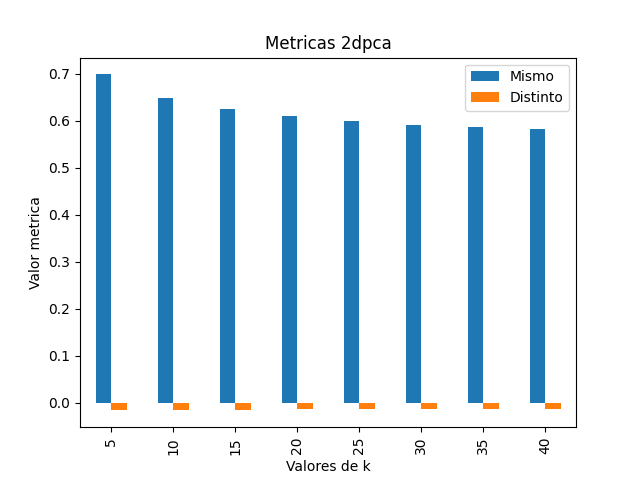
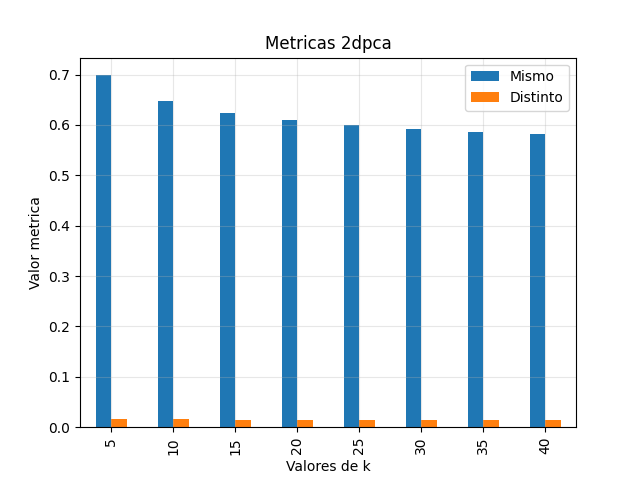
Agrgego graficos + medicion tiempos

diff --git a/src/python/main.py b/src/python/main.py
@@ -4,6 +4,7 @@ import ejecutar
 import IO
 import plotter
 import config
+import time
 
 def obtenerMatricesCovarianzayCorrelación(X, sufijo = ''):
     # centrar matriz
@@ -40,7 +41,7 @@ def PCA(imagenes, k, calcularCovarianza = False, autovectores="covarianza_eigenV
     X = utils.aplanarImagenes(imagenes)
     # Obtener componentes principales
     if calcularCovarianza:
-        C = obtenerMatricesCovarianzayCorrelación(X)
+        obtenerMatricesCovarianzayCorrelación(X)
         # Calcular autovalores y autovectores de matriz de covarianza
         print("Ejecutando Deflacion para Matriz de Covarianza")
         if omitirAutovectores:
@@ -119,7 +120,7 @@ def generarEigenFaces(imagenes, k):
 
 
 def regenerarRostros(imagenes):
-    folder = "resultados/ejericico_2/item_d/"
+    folder = "resultados/ejercicio_2/item_d/"
     # PCA
     for componentes in [10, 100, 200, 300, 400]:
         rostros_pca, _ = PCA(imagenes, componentes, False)
@@ -169,8 +170,8 @@ def calcularMetricas(M):
 
 
 def errorPcaVsTdpca(imagenes):
-    ks_pca = list(range(50, 400, 50))
-    ks_tdpca = list(range(5, 45, 5))
+    ks_pca = list(range(50, 401, 50))
+    ks_tdpca = list(range(5, 46, 5))
     imagenes_procesadas = {"pca": {}, "tdpca": {}}
     for k in ks_pca:
         imagenes_pca, z_pca = PCA(imagenes, k, False)
@@ -179,6 +180,20 @@ def errorPcaVsTdpca(imagenes):
         imagenes_tdpca, z_tdpca = TDPCA(imagenes, k, False)
         imagenes_procesadas["tdpca"][k] = imagenes_tdpca
     plotter.graficarErrorCompresion(imagenes, imagenes_procesadas, "Error de compresión PCA vs 2DPCA")
+
+def errorEnRango(imagenes, metodo, rango, calcularCovarianza=False):
+    imagenes_procesadas = {}
+    if metodo == "pca":
+        for k in rango:
+            print("resolviendo para k: " + str(k))
+            imagenes_pca, z_pca = PCA(imagenes, k, calcularCovarianza)
+            imagenes_procesadas[k] = imagenes_pca
+    else:
+        for k in rango:
+            print("resolviendo para k: " + str(k))
+            imagenes_tdpca, z_tdpca = TDPCA(imagenes, k, calcularCovarianza)
+            imagenes_procesadas[k] = imagenes_tdpca
+    plotter.graficarErrorEnRango(imagenes, imagenes_procesadas, metodo)
 
 
 def visualizarCorrelacion(imagenes, generarMatrices=False):
@@ -206,7 +221,7 @@ def compararMetricas(imagenes, metodo, rango, generarMatrices=False):
     data = {}
     for m, k in zip(matrices, rango):
         mismo, distinto = calcularMetricas(m)
-        data[k] = [mismo, distinto]
+        data[k] = [mismo, abs(distinto)]
     plotter.graficarMetricasSimiliaridad(data, "Metricas " + metodo)
 
 def errorSetReducido(imagenes, metodo, ks):
@@ -217,6 +232,45 @@ def errorSetReducido(imagenes, metodo, ks):
         imagenes_procesadas["completo"][k] = imagenes_completo
         imagenes_procesadas["reducido"][k] = imagenes_reducido
     plotter.graficarErrorCompresion(imagenes, imagenes_procesadas, metodo.__name__ + ": Error de compresión set reducido", "completo", "reducido")
+
+
+def medirTiemposPCA(rango):
+    for k in rango:
+        tiempos = []
+        for iter in range(0, 20):
+            start = time.time()
+            PCA(imagenes, k, True)
+            end = time.time()
+            tiempos.append(end-start)
+
+        IO.writeTimes(tiempos, "pca_" + str(k))
+
+
+def medirTiempos2dpca(ejecutar=False):
+    if ejecutar:
+        tiempos = []
+        for iter in range(0, 20):
+            start = time.time()
+            TDPCA(imagenes, 10, True)
+            end = time.time()
+            tiempos.append(end - start)
+        IO.writeTimes(tiempos, "2dpca")
+
+    data = [np.loadtxt("resultados/ejercicio_4/2dpca", delimiter=" ")]
+    plotter.boxplotTiempos(data, [56], "2DPCA")
+
+
+def tiempoSegunComponentesPCA(rango, ejecutar=False):
+    if ejecutar:
+        medirTiemposPCA(rango)
+
+    tiempos = {}
+    for k in rango:
+        filename = "pca_" + str(k)
+        tiempos[k] = np.loadtxt("resultados/ejercicio_4/" + filename, delimiter=" ")
+
+    data = [v for v in tiempos.values()]
+    plotter.boxplotTiempos(data, rango)
 
 
 if __name__ == '__main__':
@@ -242,13 +296,19 @@ if __name__ == '__main__':
 
     # Ejercicio 3
     # a) Visualizar matriz de correlación
-    visualizarCorrelacion(imagenes, False)
+    visualizarCorrelacion(imagenes, True)
 
     # b) Metricas de similaridad
-    compararMetricas(imagenes, "pca", [*range(50, 401, 50)], True)
-    compararMetricas(imagenes, "2dpca", [*range(5, 41, 5)], True)
+    compararMetricas(imagenes, "pca", [*range(50, 401, 50)], generarMatrices=False)
+    compararMetricas(imagenes, "2dpca", [*range(5, 41, 5)], generarMatrices=False)
 
     # c) Error de compresion
     errorPcaVsTdpca(imagenes)
-    errorSetReducido(imagenes, PCA, list(range(50, 400, 50)))
-    errorSetReducido(imagenes, TDPCA, list(range(5, 45, 5)))
+    errorSetReducido(imagenes, PCA, list(range(50, 401, 50)))
+    errorSetReducido(imagenes, TDPCA, list(range(5, 46, 5)))
+    errorEnRango(imagenes, "pca", [*range(50, 901, 50)])
+
+    # Ejercicio 4
+    # Medir tiempos
+    tiempoSegunComponentesPCA([*range(10, 51, 10)], ejecutar=True)
+    medirTiempos2dpca(ejecutar=True)

diff --git a/src/python/plotter.py b/src/python/plotter.py
@@ -82,6 +82,24 @@ def graficarErrorCompresion(imagenes, imagenes_procesadas, titulo, metodo1="pca"
     plt.savefig('resultados/ejercicio_3/item_c/' + titulo)
     plt.clf()
 
+def graficarErrorEnRango(imagenes, imagenes_procesadas, metodo):
+    errores = {}
+    for k in imagenes_procesadas.keys():
+        errores[k] = calcularErrorCompresion(imagenes, imagenes_procesadas[k])
+
+    xticks = list(errores.keys())
+    _, ax = plt.subplots()
+    plt.scatter(xticks, list(errores.values()))
+
+    ax.set_xticks(xticks)
+    plt.xticks(rotation=90)
+    plt.title("Error de compresión " + metodo)
+    plt.xlabel('Cantidad de componentes')
+    plt.ylabel('Error')
+    plt.grid(alpha=0.5)
+    plt.savefig('resultados/ejercicio_3/item_c/rango_' + metodo)
+    plt.clf()
+
 def graficarMetricasSimiliaridad(data, titulo):
     df = pd.DataFrame(data).T
 
@@ -91,12 +109,29 @@ def graficarMetricasSimiliaridad(data, titulo):
     plt.title(titulo)
     plt.xlabel('Valores de k')
     plt.ylabel('Valor metrica')
-    ax.legend(["Mismo", "Distinto"]);
+    plt.grid(alpha=0.3)
+    ax.legend(["Mismo", "Distinto"])
     plt.savefig('resultados/ejercicio_3/item_b/' + titulo)
     plt.clf()
 
-def calcularErrorCompresion(imagenes, imagenes_pca):
+def calcularErrorCompresion(imagenes, imagenes_procesadas):
     error = np.zeros(len(imagenes))
     for i in range(len(imagenes)):
-        error[i] = np.linalg.norm(np.subtract(imagenes[i], imagenes_pca[i]), ord=2)
+        error[i] = np.linalg.norm(np.subtract(imagenes[i], imagenes_procesadas[i]), ord=2)
     return np.mean(error)
+
+
+def boxplotTiempos(data, rango, metodo="PCA"):
+    fig = plt.figure()
+    ax = fig.add_subplot()
+
+    ax.boxplot(data)
+    ax.set_title("Tiempo de ejecución de " + metodo)
+    ax.set_xlabel('Cantidad de componentes')
+    ax.set_ylabel('Tiempo (segundos)')
+
+    x = [*range(len(data) + 1)]
+    plt.xticks(x, [0] + rango)
+    plt.grid()
+    plt.savefig("resultados/ejercicio_4/tiempos_" + metodo)
+    plt.clf()

diff --git a/src/python/IO.py b/src/python/IO.py
@@ -1,5 +1,4 @@
 import numpy as np
-import pandas as pd
 import matplotlib.pyplot as plt
 from pathlib import Path
 
@@ -8,6 +7,13 @@ def write(m, filename, path='matrices/'):
     with open(path + filename, 'wb') as f:
         for line in m:
             np.savetxt(f, line, fmt='%.6f')
+
+
+def writeTimes(data, filename):
+    with open(r'resultados/ejercicio_4/' + filename, 'w') as fp:
+        for time in data:
+            # write each item on a new line
+            fp.write("%.3f\n" % time)
 
 
 def cargarImagenes():
